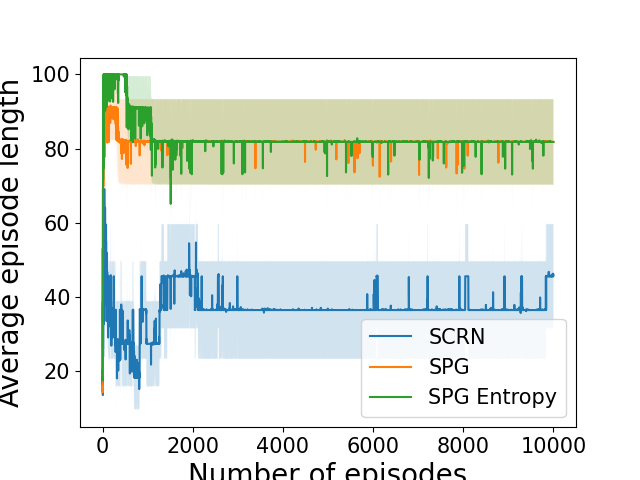
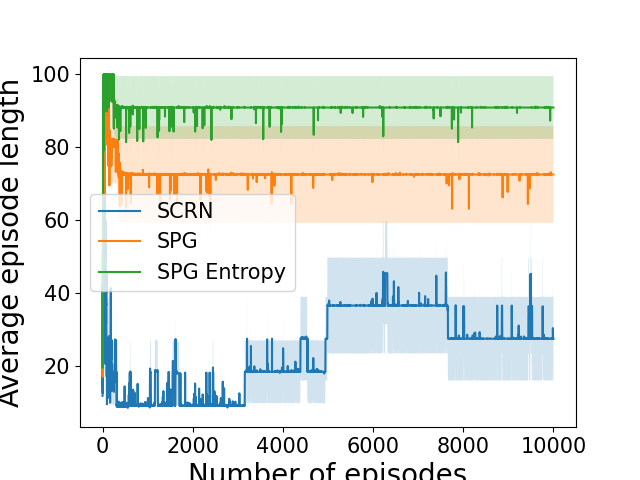
Added missing figures

diff --git a/run.py b/run.py
@@ -2,7 +2,7 @@ import pickle
 from utils.utils import *
 import matplotlib.pyplot as plt
 
-environment = "maze"  # among random maze, cliff, hole or taxi
+environment = "hole"  # among random maze, cliff, hole or taxi
 
 if environment == "taxi":  # select taxi environment from gym
     from taxi.training_utils import *
@@ -75,11 +75,11 @@ QOI_SPG = average_stats["SPG"]["steps"]
 STD_SPG = std_stats["SPG"]["steps"]
 QOI_ESPG = average_stats["SPG Entropy"]["steps"]
 STD_ESPG = std_stats["SPG Entropy"]["steps"]
-plt.plot(QOI_SCRN, label="SCRN")
+plt.plot(np.arange(0, num_episodes), QOI_SCRN, label="SCRN")
 plt.fill_between(np.arange(0, num_episodes), QOI_SCRN-STD_SCRN, QOI_SCRN+STD_SCRN, alpha=0.2)
-plt.plot(QOI_SPG, label="SPG")
+plt.plot(np.arange(0, num_episodes), QOI_SPG, label="SPG")
 plt.fill_between(np.arange(0, num_episodes), QOI_SPG-STD_SPG, QOI_SPG+STD_SPG, alpha=0.2)
-plt.plot(QOI_ESPG, label="SPG Entropy")
+plt.plot(np.arange(0, num_episodes), QOI_ESPG, label="SPG Entropy")
 plt.fill_between(np.arange(0, num_episodes), QOI_ESPG-STD_ESPG, QOI_ESPG+STD_ESPG, alpha=0.2)
 plt.legend(loc="best", fontsize=15)
 plt.xticks(fontsize=15)
@@ -95,11 +95,11 @@ QOI_SPG = average_stats["SPG"]["taus"]
 STD_SPG = std_stats["SPG"]["taus"]
 QOI_ESPG = average_stats["SPG Entropy"]["taus"]
 STD_ESPG = std_stats["SPG Entropy"]["taus"]
-plt.plot(np.arange(0, num_episodes, step=test_freq), QOI_SCRN, label="SCRN")
+plt.semilogy(np.arange(0, num_episodes, step=test_freq), QOI_SCRN, label="SCRN")
 plt.fill_between(np.arange(0, num_episodes, step=test_freq), QOI_SCRN-STD_SCRN, QOI_SCRN+STD_SCRN, alpha=0.2)
-plt.plot(np.arange(0, num_episodes, step=test_freq), QOI_SPG, label="SPG")
+plt.semilogy(np.arange(0, num_episodes, step=test_freq), QOI_SPG, label="SPG")
 plt.fill_between(np.arange(0, num_episodes, step=test_freq), QOI_SPG-STD_SPG, QOI_SPG+STD_SPG, alpha=0.2)
-plt.plot(np.arange(0, num_episodes, step=test_freq), QOI_ESPG, label="SPG Entropy")
+plt.semilogy(np.arange(0, num_episodes, step=test_freq), QOI_ESPG, label="SPG Entropy")
 plt.fill_between(np.arange(0, num_episodes, step=test_freq), QOI_ESPG-STD_ESPG, QOI_ESPG+STD_ESPG, alpha=0.2)
 plt.xticks(fontsize=15)
 plt.yticks(fontsize=15)
@@ -115,11 +115,11 @@ QOI_SPG = average_stats["SPG"]["rewards"]
 STD_SPG = std_stats["SPG"]["rewards"]
 QOI_ESPG = average_stats["SPG Entropy"]["rewards"]
 STD_ESPG = std_stats["SPG Entropy"]["rewards"]
-plt.plot(QOI_SCRN, label="SCRN")
+plt.plot(np.arange(0, num_episodes), QOI_SCRN, label="SCRN")
 plt.fill_between(np.arange(0, num_episodes), QOI_SCRN-STD_SCRN, QOI_SCRN+STD_SCRN, alpha=0.2)
-plt.plot(QOI_SPG, label="SPG")
+plt.plot(np.arange(0, num_episodes), QOI_SPG, label="SPG")
 plt.fill_between(np.arange(0, num_episodes), QOI_SPG-STD_SPG, QOI_SPG+STD_SPG, alpha=0.2)
-plt.plot(QOI_ESPG, label="SPG Entropy")
+plt.plot(np.arange(0, num_episodes), QOI_ESPG, label="SPG Entropy")
 plt.fill_between(np.arange(0, num_episodes), QOI_ESPG-STD_ESPG, QOI_ESPG+STD_ESPG, alpha=0.2)
 plt.legend(loc="best", fontsize=15)
 plt.xticks(fontsize=15)
@@ -135,12 +135,12 @@ QOI_SPG = average_stats["SPG"]["obj_estimates"]
 STD_SPG = std_stats["SPG"]["obj_estimates"]
 QOI_ESPG = average_stats["SPG Entropy"]["obj_estimates"]
 STD_ESPG = std_stats["SPG Entropy"]["obj_estimates"]
-plt.plot(QOI_SCRN, label="SCRN")
-plt.fill_between(np.arange(0, num_episodes), QOI_SCRN-STD_SCRN, QOI_SCRN+STD_SCRN, alpha=0.2)
-plt.plot(QOI_SPG, label="SPG")
-plt.fill_between(np.arange(0, num_episodes), QOI_SPG-STD_SPG, QOI_SPG+STD_SPG, alpha=0.2)
-plt.plot(QOI_ESPG, label="SPG Entropy")
-plt.fill_between(np.arange(0, num_episodes), QOI_ESPG-STD_ESPG, QOI_ESPG+STD_ESPG, alpha=0.2)
+plt.plot(np.arange(0, num_episodes, step=test_freq), QOI_SCRN, label="SCRN")
+plt.fill_between(np.arange(0, num_episodes, step=test_freq), QOI_SCRN-STD_SCRN, QOI_SCRN+STD_SCRN, alpha=0.2)
+plt.plot(np.arange(0, num_episodes, step=test_freq), QOI_SPG, label="SPG")
+plt.fill_between(np.arange(0, num_episodes, step=test_freq), QOI_SPG-STD_SPG, QOI_SPG+STD_SPG, alpha=0.2)
+plt.plot(np.arange(0, num_episodes, step=test_freq), QOI_ESPG, label="SPG Entropy")
+plt.fill_between(np.arange(0, num_episodes, step=test_freq), QOI_ESPG-STD_ESPG, QOI_ESPG+STD_ESPG, alpha=0.2)
 plt.legend(loc="best", fontsize=15)
 plt.xticks(fontsize=15)
 plt.yticks(fontsize=15)
@@ -155,15 +155,15 @@ QOI_SPG = average_stats["SPG"]["grad_estimates"]
 STD_SPG = std_stats["SPG"]["grad_estimates"]
 QOI_ESPG = average_stats["SPG Entropy"]["grad_estimates"]
 STD_ESPG = std_stats["SPG Entropy"]["grad_estimates"]
-plt.plot(QOI_SCRN, label="SCRN")
-plt.fill_between(np.arange(0, num_episodes), QOI_SCRN-STD_SCRN, QOI_SCRN+STD_SCRN, alpha=0.2)
-plt.plot(QOI_SPG, label="SPG")
-plt.fill_between(np.arange(0, num_episodes), QOI_SPG-STD_SPG, QOI_SPG+STD_SPG, alpha=0.2)
-plt.plot(QOI_ESPG, label="SPG Entropy")
-plt.fill_between(np.arange(0, num_episodes), QOI_ESPG-STD_ESPG, QOI_ESPG+STD_ESPG, alpha=0.2)
+plt.plot(np.arange(0, num_episodes, step=test_freq), QOI_SCRN, label="SCRN")
+plt.fill_between(np.arange(0, num_episodes, step=test_freq), QOI_SCRN-STD_SCRN, QOI_SCRN+STD_SCRN, alpha=0.2)
+plt.plot(np.arange(0, num_episodes, step=test_freq), QOI_SPG, label="SPG")
+plt.fill_between(np.arange(0, num_episodes, step=test_freq), QOI_SPG-STD_SPG, QOI_SPG+STD_SPG, alpha=0.2)
+plt.plot(np.arange(0, num_episodes, step=test_freq), QOI_ESPG, label="SPG Entropy")
+plt.fill_between(np.arange(0, num_episodes, step=test_freq), QOI_ESPG-STD_ESPG, QOI_ESPG+STD_ESPG, alpha=0.2)
 plt.legend(loc="best", fontsize=15)
 plt.xticks(fontsize=15)
 plt.yticks(fontsize=15)
 plt.xlabel("Number of episodes", fontsize=20)
-plt.ylabel("Gradient norms during training", fontsize=20)
+plt.ylabel(r"$\vert \vert \nabla J(\theta) \vert \vert$", fontsize=20)
 plt.savefig(f"figures/{environment}/gradients.png")

diff --git a/environments/hole.py b/environments/hole.py
@@ -6,11 +6,11 @@ from gym.spaces import Discrete
 class Hole(BaseMaze):
     def __init__(self, **kwargs):
         self.x = np.array([[0, 0, 0, 0, 0, 0, 0, 0, 0, 0, 0],
-                           [0, 0, 1, 1, 0, 0, 0, 1, 1, 0, 0],
-                           [0, 0, 1, 1, 1, 1, 1, 1, 1, 0, 0],
+                           [0, 0, 1, 0, 1, 0, 0, 0, 0, 0, 0],
+                           [0, 0, 1, 1, 1, 0, 0, 0, 0, 0, 0],
                            [0, 0, 0, 0, 0, 0, 0, 0, 0, 0, 0]])
         self.start_idx = [[3, 0]]
-        self.goal_idx = [[1, 5]]
+        self.goal_idx = [[1, 3]]
         super().__init__(**kwargs)
 
     @property
@@ -53,16 +53,16 @@ class RandomHole(BaseEnv):
         return self.num_states, len(self.motions)
 
     def compute_optimal_actions(self):
-        for i in range(4):
+        for i in range(3):
             self.optimal_actions[i] = 3
-        for i in range(4, 7):
+        for i in range(3, 4):
             self.optimal_actions[i] = 1
-        for i in range(7, 11):
+        for i in range(4, 11):
             self.optimal_actions[i] = 2
         for i in range(11, 13):
             self.optimal_actions[i] = 0
-        self.optimal_actions[15] = 3
-        self.optimal_actions[17] = 2
+        for i in range(15, 21):
+            self.optimal_actions[i] = 0
         for i in range(20, 22):
             self.optimal_actions[i] = 0
         for i in range(22, 24):
@@ -71,11 +71,9 @@ class RandomHole(BaseEnv):
             self.optimal_actions[i] = 0
         for i in range(33, 35):
             self.optimal_actions[i] = 0
-        for i in range(35, 39):
-            self.optimal_actions[i] = 2
-        for i in range(39, 42):
+        for i in range(35, 38):
             self.optimal_actions[i] = 3
-        for i in range(42, 44):
+        for i in range(38, 44):
             self.optimal_actions[i] = 0
 
     def get_optimal_actions(self):
